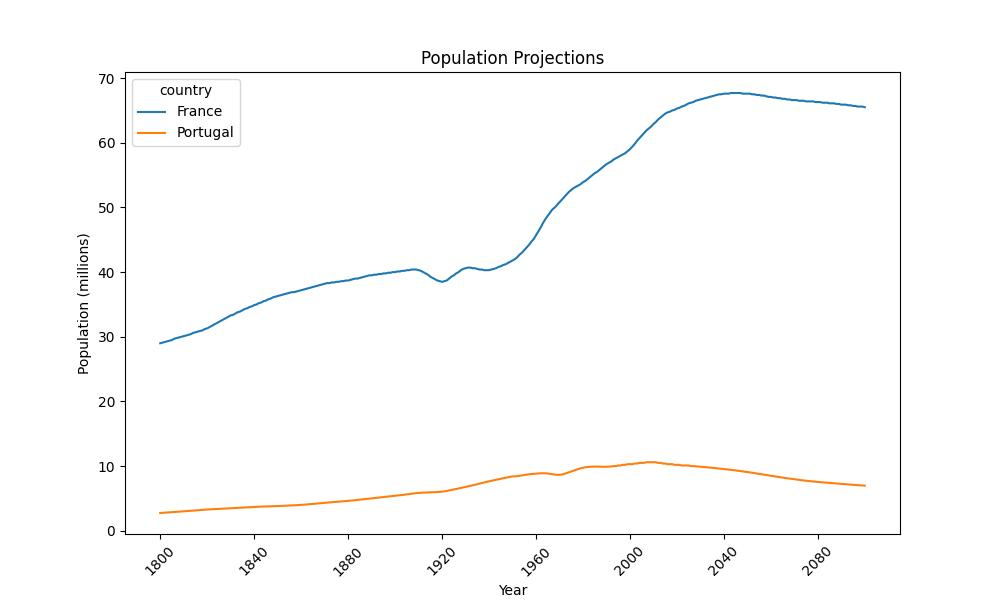
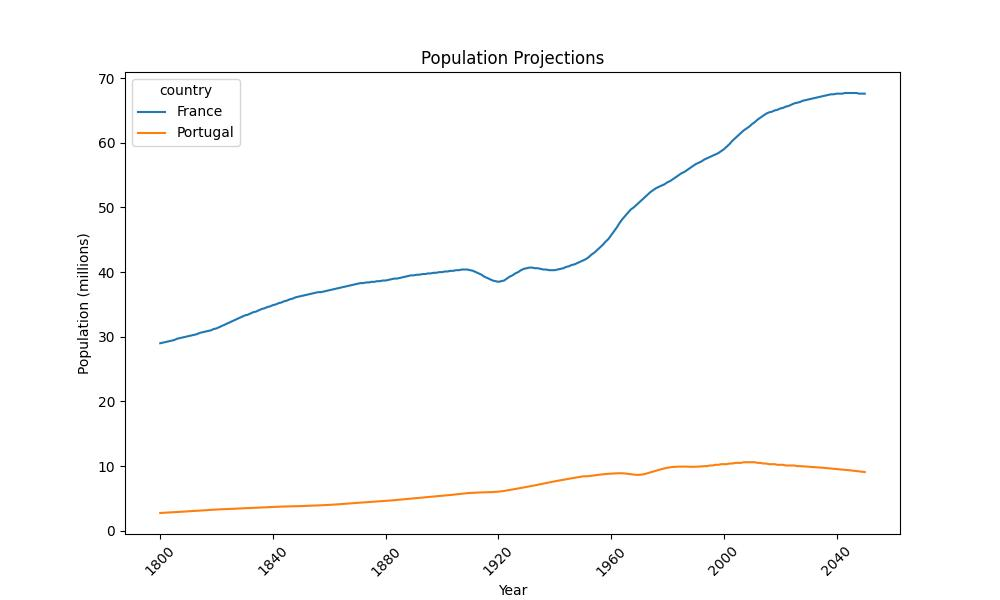
Add documentation on functions

diff --git a/Python_2/ex03/projection_life.py b/Python_2/ex03/projection_life.py
@@ -4,6 +4,9 @@ from load_csv import load
 
 
 def treat_data_income(df: pd.DataFrame) -> pd.DataFrame:
+    """
+        Treat the data of dataset df_income.
+    """
     df.set_index('country', inplace=True)
     for col in df.columns:
         df[col] = df[col].apply(
@@ -15,27 +18,23 @@ def treat_data_income(df: pd.DataFrame) -> pd.DataFrame:
         )
     df_graph = df['1900']
     df_graph.name = 'gross_domestic_product'
-    print(df.head())
-    print(df.info())
-    print(df.isna())
-    print(df_graph.head())
-    print(df_graph.info())
     return df_graph
 
 
 def treat_data_life(df: pd.DataFrame) -> pd.DataFrame:
+    """
+        Treat the data of dataset df_life.
+    """
     df.set_index('country', inplace=True)
     df_graph = df['1900']
     df_graph.name = 'life_expectancy'
-    print(df.head())
-    print(df.info())
-    print(df.isna())
-    print(df_graph.head())
-    print(df_graph.info())
     return df_graph
 
 
 def display_graph(df: pd.DataFrame):
+    """
+        Take the data and display in a graph
+    """
     plt.figure(figsize=(10, 6))
     plt.scatter(x=df['gross_domestic_product'], y=df['life_expectancy'])
     plt.title("1900")
@@ -46,6 +45,10 @@ def display_graph(df: pd.DataFrame):
 
 
 def main():
+    """
+        A program that displays the projection of life expectancy in relation
+        to the gross national product of the year 1900 for each country.
+    """
     df_income = load(
         "Python_2/income_per_person_gdppercapita_ppp_inflation_adjusted.csv")
     df_life = load(
@@ -55,7 +58,6 @@ def main():
     df_final = pd.concat([df_graph_income, df_graph_life], axis=1)
     df_final.columns = ['gross_domestic_product', 'life_expectancy']
     display_graph(df_final)
-    print(df_final.head())
 
 
 if __name__ == "__main__":

diff --git a/Python_2/ex02/aff_pop.py b/Python_2/ex02/aff_pop.py
@@ -4,12 +4,16 @@ from load_csv import load
 
 
 def pop(df: pd.DataFrame) -> pd.DataFrame:
+    """
+        Treat the data of dataset.
+    """
     countries = ['Portugal', 'France']
     df_graph = df[df['country'].isin(countries)]
     df_graph = df_graph.set_index('country')
-    print(df_graph.info())
+
     df_graph = df_graph.T
     df_graph.index = df_graph.index.astype(int)
+    df_graph = df_graph[(df_graph.index >= 1800) & (df_graph.index <= 2050)]
     for country in countries:
         df_graph[country] = df_graph[country].apply(
             lambda x: (
@@ -19,25 +23,34 @@ def pop(df: pd.DataFrame) -> pd.DataFrame:
             )
         )
     df_graph = df_graph / 1000000
-    print(df_graph.columns)
-    print(df_graph.head())
     return df_graph
 
 
 def data_visualization(df: pd.DataFrame):
+    """
+        Take the data and display in a graph
+    """
     df.plot(figsize=(10, 6))
     plt.title("Population Projections")
     plt.xlabel("Year")
     plt.ylabel("Population (millions)")
-    plt.xticks(range(1800, 2101, 40), rotation=45)
+    plt.xticks(range(1800, 2051, 40), rotation=45)
     plt.savefig("pop.jpeg")
     return
 
 
 def main():
+    """
+        A program that loads the file population_total.csv,
+        and displays the country information of your campus
+        versus other country.
+    """
     df = load("Python_2/population_total.csv")
-    df_visualization = pop(df)
-    data_visualization(df_visualization)
+    if df is not None:
+        df_visualization = pop(df)
+        data_visualization(df_visualization)
+    else:
+        print("Dataset not loaded. Exiting.")
 
 
 if __name__ == "__main__":

diff --git a/Python_2/ex03/load_csv.py b/Python_2/ex03/load_csv.py
@@ -2,6 +2,12 @@ import pandas as pd
 
 
 def load(path: str) -> pd.DataFrame:
-    df = pd.read_csv(path)
-    print(f'Loading dataset of dimensions {df.shape}')
-    return df
+    """The function loads the csv file."""
+    try:
+        df = pd.read_csv(path)
+        print(f"Loading {path} dataset of dimensions {df.shape}")
+        return df
+    except (FileNotFoundError, pd.errors.EmptyDataError, pd.errors.ParserError,
+            OSError) as e:
+        print(f"Error loading file: {e}")
+        return None

diff --git a/Python_2/ex02/load_csv.py b/Python_2/ex02/load_csv.py
@@ -2,6 +2,12 @@ import pandas as pd
 
 
 def load(path: str) -> pd.DataFrame:
-    df = pd.read_csv(path)
-    print(f'Loading dataset of dimensions {df.shape}')
-    return df
+    """The function loads the csv file."""
+    try:
+        df = pd.read_csv(path)
+        print(f"Loading dataset of dimensions {df.shape}")
+        return df
+    except (FileNotFoundError, pd.errors.EmptyDataError, pd.errors.ParserError,
+            OSError) as e:
+        print(f"Error loading file: {e}")
+        return None
